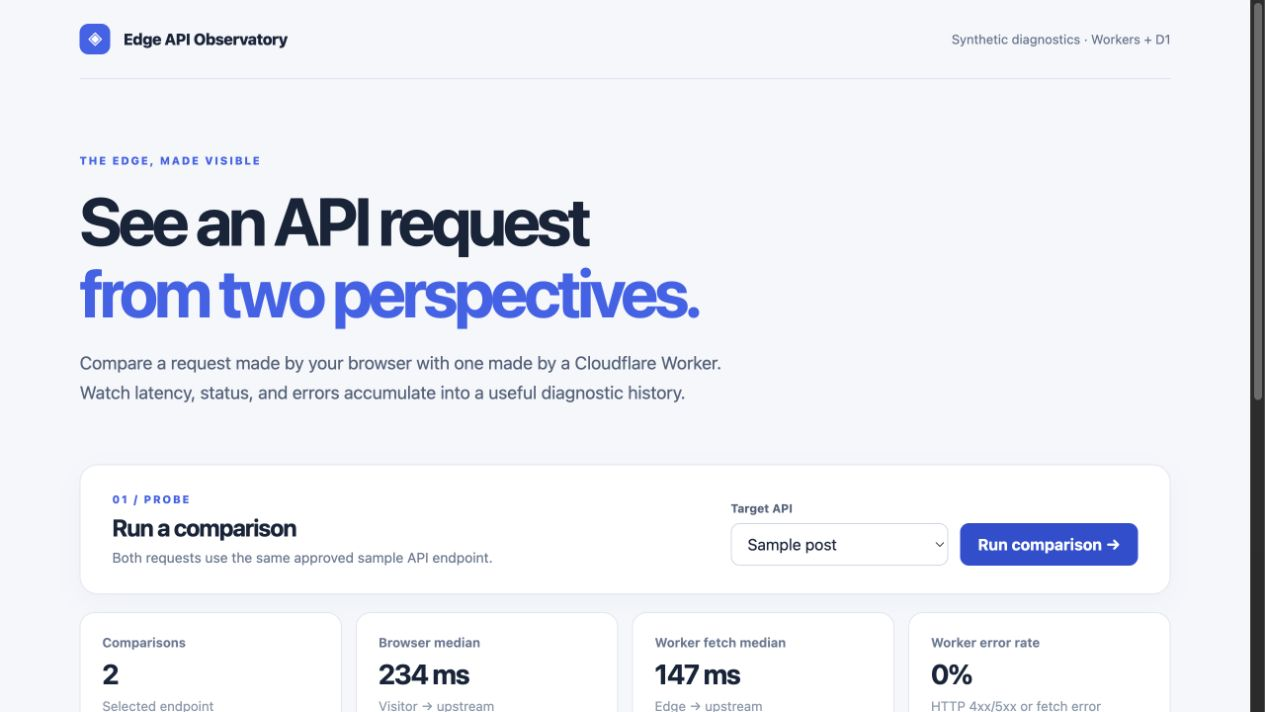
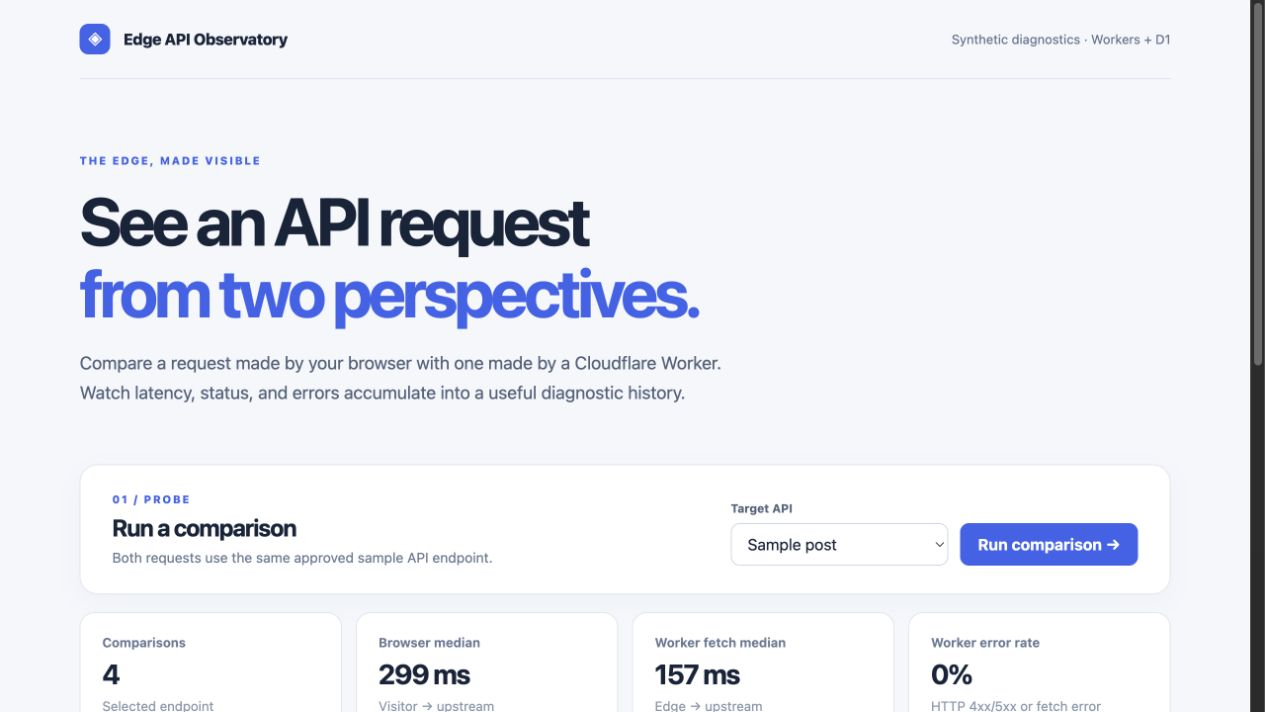
docs: record local release verification

diff --git a/RELEASE_LOG.md b/RELEASE_LOG.md
@@ -20,9 +20,15 @@ Add an entry here **in each commit**. Record user-visible changes, verification,
 - Verified the existing repo state and Cloudflare/GitHub authentication status.
 - Release impact: records the remaining work and external account gates without claiming a release.
 
-### 2026-11-07 — `feat: harden probes and add Worker tests` (this commit)
+### 2026-11-07 — `feat: harden probes and add Worker tests` (`a801536`)
 
 - Limited JSON request bodies to 2 KiB and upstream response reads to 64 KiB. Added the Cloudflare rate-limit binding for a shared anonymous budget.
 - Added Wrangler-generated binding types and five tests for the allowlist, validation, rate-limit response, D1 persistence, and oversized responses.
 - Verified typecheck, tests, build, the local migration state, and a live local probe write.
 - Release impact: the local release candidate now has bounded probe inputs and automated Worker coverage. Production deployment remains open.
+
+### 2026-11-07 — `docs: record local release verification` (this commit)
+
+- Recorded the passing typecheck, five Worker tests, production build, local migration state, and browser comparison that persisted after refresh.
+- Updated the dashboard screenshot to show the verified local release candidate.
+- Release impact: all local v0.1.0 checks are complete; Cloudflare authentication, production D1, remote deployment, and public verification remain open.

diff --git a/ReadMe.md b/ReadMe.md
@@ -16,7 +16,7 @@ A small synthetic diagnostics dashboard for learning Cloudflare Workers and D1. 
 - A Cloudflare rate-limit binding provides a shared anonymous budget of 10 probes per minute per Cloudflare location. The limit is approximate.
 - Five Worker tests cover the allowlist, invalid input, rate-limit response, D1 persistence, and an oversized upstream response.
 
-The initial local comparison was verified in a browser: both paths returned HTTP 200 and the result appeared in the D1-backed history.
+The hardened local release candidate was verified in a browser: both paths returned HTTP 200, and the result remained in D1-backed history after a page refresh. `npm run typecheck`, `npm run test`, and `npm run build` pass.
 
 This is **synthetic testing**, not passive monitoring of an existing API's real traffic. Browser timings are client-reported. Direct browser tests can fail because of CORS, and a difference between browser-direct and Worker-proxied durations does not isolate Worker overhead. The Worker fetch timing includes reading the response body. Worker handler timing is measured internally but is not shown as a precise CPU measurement.
 

diff --git a/RELEASE_PLAN.md b/RELEASE_PLAN.md
@@ -9,7 +9,7 @@ Target: **v0.1.0**, a public portfolio demo of synthetic browser-direct and Work
 - [x] Bound request bodies and response reads; reject unexpected request content types.
 - [x] Add Cloudflare rate limiting to the probe route and verify its 429 response in a Worker test.
 - [x] Add automated Worker tests covering validation, storage, and error paths.
-- [ ] Run typecheck, tests, build, and a fresh local migration and browser smoke test.
+- [x] Run typecheck, tests, build, local migration verification, and browser smoke test with persistence after refresh.
 - [ ] Create the production D1 database and replace the placeholder database ID.
 - [ ] Apply the remote migration, deploy the Worker, and verify the public URL from a browser.
 - [ ] Tag `v0.1.0` and publish release notes after the deployment is verified.
